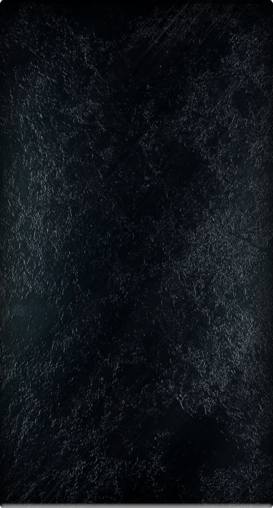
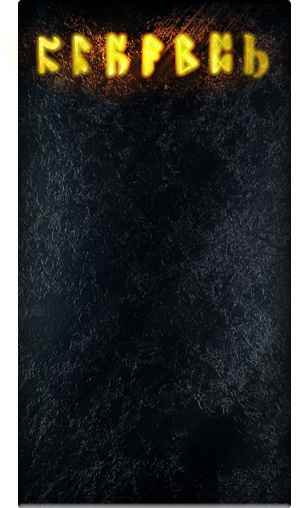
change img

diff --git a/src/components/Purchase.vue b/src/components/Purchase.vue
@@ -1,6 +1,5 @@
 <template>
 	<div class="purchase">
-		<img src="../assets/img/purchase-title.png" alt="" />
 		<div class="text-item">1 игра = 5 $</div>
 		<div class="title">Вам доступно</div>
 		<ul class="purchase-list">
@@ -68,7 +67,7 @@ export default {
 	background-image: url(@img/purchase-bg.png);
 	background-repeat: no-repeat;
 	background-size: contain;
-	padding: 20px;
+	padding: 80px 20px;
 }
 .text-item {
 	color: #bab6b6;
